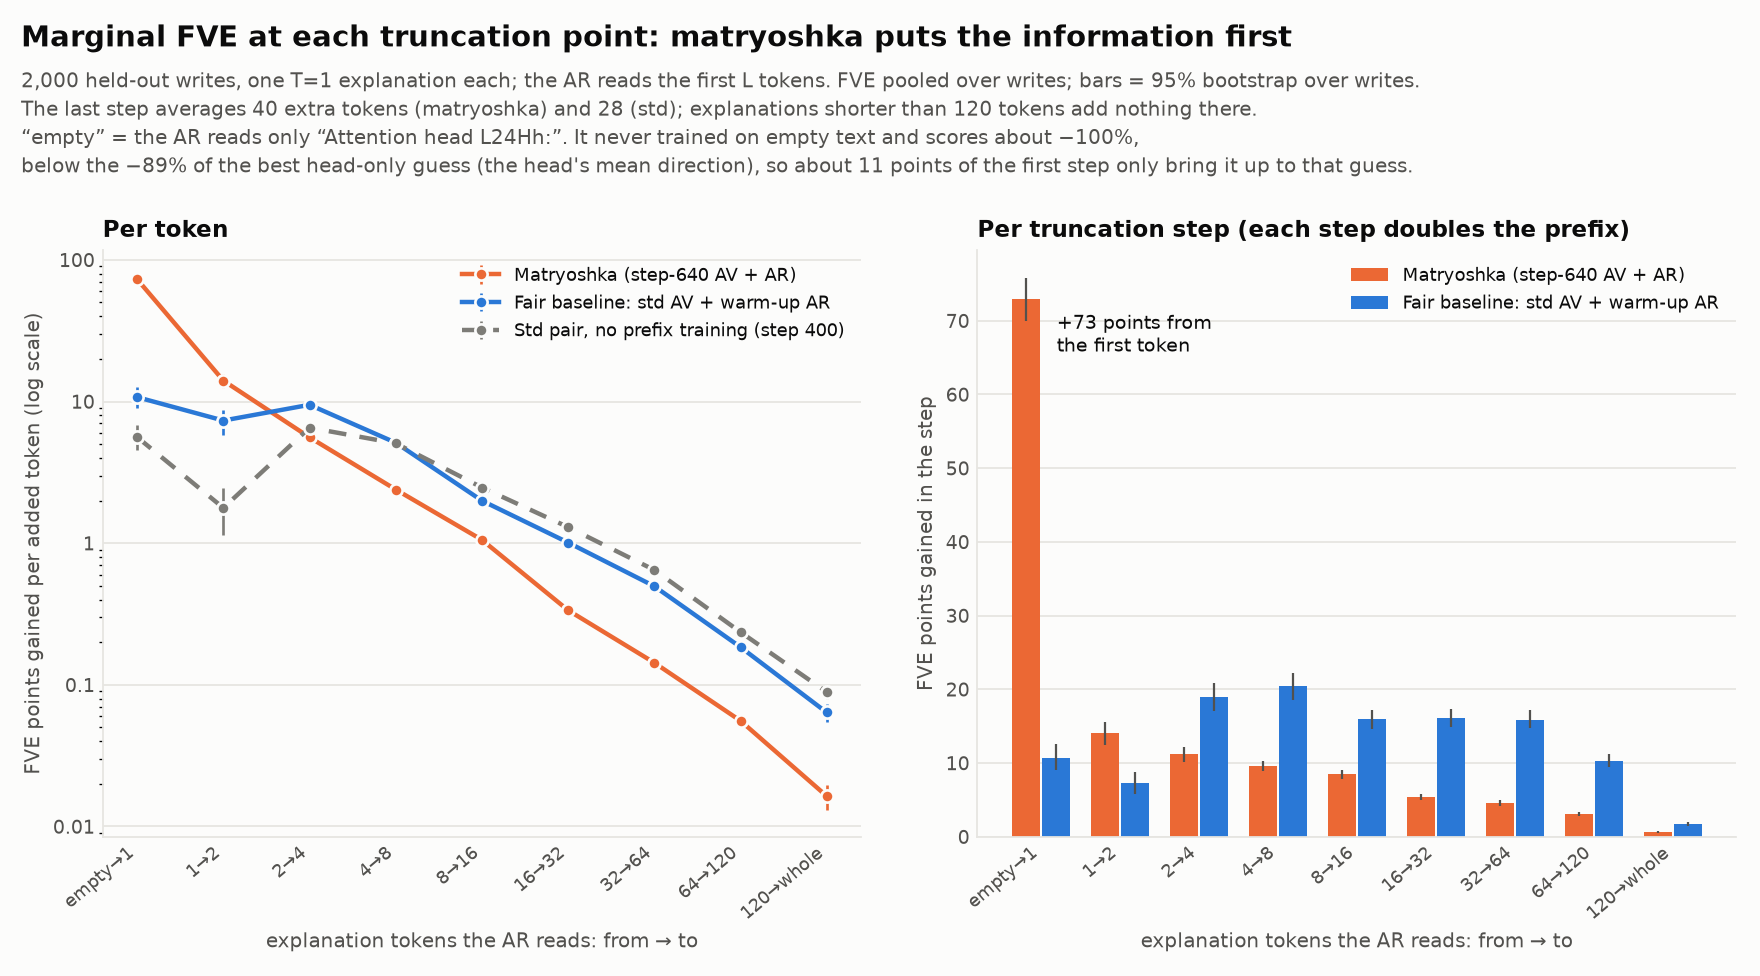
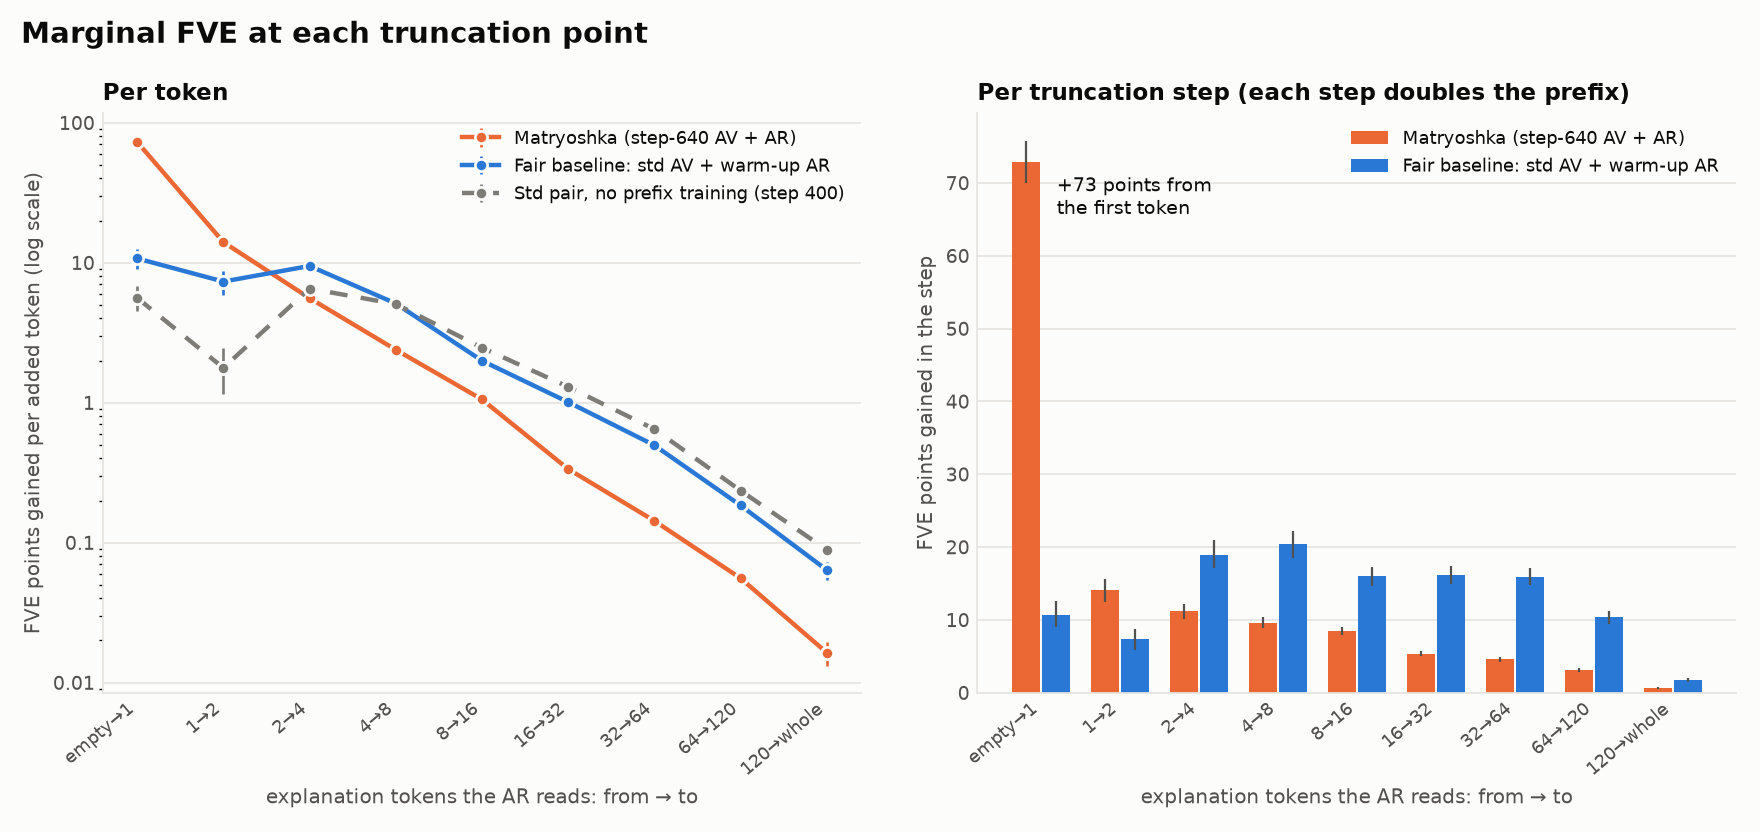
Head NLA: matryoshka FVE-by-token figure; descriptions removed from the figure images (titles, axes, legends and value labels only), captions live in the results doc
Claude-Session: https://claude.ai/code/session_01XurwTUm8G3UyEr7SWoMWmT

diff --git a/scripts/heads_mtry_quality_plots.py b/scripts/heads_mtry_quality_plots.py
@@ -69,9 +69,8 @@ def style(ax, ygrid: bool = True) -> None:
     ax.tick_params(colors=INK2, labelsize=8.5, length=0)
 
 
-def heading(fig, title: str, sub: str, y0: float = 0.975) -> None:
+def heading(fig, title: str, y0: float = 0.975) -> None:
     fig.text(0.012, y0, title, fontsize=13, color=INK, fontweight="bold", va="top")
-    fig.text(0.012, y0 - 0.045 * (6.0 / fig.get_figheight()), sub, fontsize=8.8, color=INK2, va="top", linespacing=1.45)
 
 
 def fig_legend(fig, handles, y: float, ncol: int) -> None:
@@ -82,11 +81,6 @@ def fig_legend(fig, handles, y: float, ncol: int) -> None:
 def line_handle(col, ls, lab, marker="o"):
     from matplotlib.lines import Line2D
     return Line2D([], [], color=col, ls=ls, lw=2, marker=marker, ms=5.5, mec=SURF, label=lab)
-
-
-EMPTY_NOTE = ("“empty” = the AR reads only “Attention head L24Hh:”. It never trained on empty text and scores about "
-              "−100%,\nbelow the −89% of the best head-only guess (the head's mean direction), so about 11 points of the "
-              "first step only bring it up to that guess.")
 
 
 def pcty(ax) -> None:
@@ -151,7 +145,7 @@ def main() -> None:
     x = np.arange(len(LS))
 
     # ---- 1. marginal FVE at each truncation step ----
-    fig, (a1, a2) = plt.subplots(1, 2, figsize=(11, 6.1), dpi=160)
+    fig, (a1, a2) = plt.subplots(1, 2, figsize=(11, 5.2), dpi=160)
     fig.patch.set_facecolor(SURF)
     xs = np.arange(len(STEPS))
     for k, lab, col, ls, _ in LINES:
@@ -184,17 +178,13 @@ def main() -> None:
         ax.set_xlabel("explanation tokens the AR reads: from → to", color=INK2, fontsize=8.8)
     a1.legend(loc="upper right", frameon=False, fontsize=8.3, labelcolor=INK)
     a2.legend(loc="upper right", frameon=False, fontsize=8.3, labelcolor=INK)
-    heading(fig, "Marginal FVE at each truncation point: matryoshka puts the information first",
-            f"{N:,} held-out writes, one T=1 explanation each; the AR reads the first L tokens. FVE pooled over writes; "
-            "bars = 95% bootstrap over writes.\nThe last step averages "
-            f"{R[LINES[0][1]]['step_tokens'][-1]:.0f} extra tokens (matryoshka) and {R[LINES[1][1]]['step_tokens'][-1]:.0f} "
-            "(std); explanations shorter than 120 tokens add nothing there.\n" + EMPTY_NOTE)
-    fig.tight_layout(rect=(0, 0, 1, 0.8), w_pad=2.5)
+    heading(fig, "Marginal FVE at each truncation point")
+    fig.tight_layout(rect=(0, 0, 1, 0.93), w_pad=2.5)
     fig.savefig(out / "head_nla_l24_mtry_marginal_fve.png", facecolor=SURF)
     plt.close(fig)
 
     # ---- 2. per-write quality by prefix length ----
-    fig, axs = plt.subplots(1, 3, figsize=(12, 5.6), dpi=160)
+    fig, axs = plt.subplots(1, 3, figsize=(12, 4.9), dpi=160)
     fig.patch.set_facecolor(SURF)
     for k, lab, col, ls, _ in LINES:
         r = R[lab]
@@ -206,34 +196,25 @@ def main() -> None:
         axs[1].plot(x, y, color=col, ls=ls, lw=2, marker="o", ms=5, mec=SURF, mew=1.2)
         y = 100 * np.array(r["share_of_gain"])
         axs[2].plot(x, y, color=col, ls=ls, lw=2, marker="o", ms=5, mec=SURF, mew=1.2)
-    axs[0].set_title("Cosine with the true write, per write", loc="left", fontsize=10, color=INK, fontweight="bold")
-    axs[0].set_ylabel("median (band: middle 50% of writes)", color=INK2, fontsize=8.8)
-    axs[1].set_title("Writes reconstructed better than\nthe head's mean write (FVE > 0)", loc="left", fontsize=10,
+    axs[0].set_title("Cosine per write (median, IQR)", loc="left", fontsize=10, color=INK, fontweight="bold")
+    axs[1].set_title("Writes with FVE > 0", loc="left", fontsize=10,
                      color=INK, fontweight="bold")
     axs[1].set_ylim(0, 100)
     axs[1].yaxis.set_major_formatter(matplotlib.ticker.FuncFormatter(lambda y, _: f"{y:.0f}%"))
-    axs[2].set_title("Share of the empty → whole FVE gain\nreached by the first L tokens", loc="left", fontsize=10,
+    axs[2].set_title("Share of the empty → whole gain", loc="left", fontsize=10,
                      color=INK, fontweight="bold")
     axs[2].set_ylim(0, 105)
     axs[2].yaxis.set_major_formatter(matplotlib.ticker.FuncFormatter(lambda y, _: f"{y:.0f}%"))
     m, b = R[LINES[0][1]], R[LINES[1][1]]
     i16 = LS.index("16")
-    axs[2].text(0.98, 0.04, f"Matryoshka: {100 * m['share_of_gain'][1]:.0f}% at token 1,\n"
-                f"fair baseline {100 * b['share_of_gain'][1]:.0f}%", transform=axs[2].transAxes, fontsize=8.3,
-                color=INK, ha="right", va="bottom")
-    axs[1].text(0.98, 0.04, f"At 16 tokens:\nmatryoshka {100 * m['rows_beating_mean'][i16]:.0f}%,\n"
-                f"fair baseline {100 * b['rows_beating_mean'][i16]:.0f}%", transform=axs[1].transAxes, fontsize=8.3,
-                color=INK, ha="right", va="bottom")
     for ax in axs:
         style(ax)
         ax.set_xticks(x)
         ax.set_xticklabels(LLAB, fontsize=8)
         ax.set_xlabel("explanation tokens the AR reads", color=INK2, fontsize=8.8)
-    heading(fig, "How reconstruction builds up as the AR reads more of the explanation",
-            f"{N:,} held-out writes (all 32 heads). Middle: bands = 95% bootstrap over writes. Right: (FVE(L) − FVE(empty)) / "
-            "(FVE(whole) − FVE(empty)), pooled FVE.\n" + EMPTY_NOTE)
-    fig_legend(fig, [line_handle(col, ls, lab) for _, lab, col, ls, _ in LINES], 0.845, 3)
-    fig.tight_layout(rect=(0, 0, 1, 0.8), w_pad=2.2)
+    heading(fig, "Reconstruction by prefix length")
+    fig_legend(fig, [line_handle(col, ls, lab) for _, lab, col, ls, _ in LINES], 0.925, 3)
+    fig.tight_layout(rect=(0, 0, 1, 0.87), w_pad=2.2)
     fig.savefig(out / "head_nla_l24_mtry_quality_by_prefix.png", facecolor=SURF)
     plt.close(fig)
 
@@ -241,7 +222,7 @@ def main() -> None:
     bfull = cm["base"].astype(np.float64)
     dist = [("Std pair (step 400)", cs["av__true"], STD_C, "-"), ("Matryoshka pair (step 640)", cm["av__true"], MTRY_C, "-"),
             ("Shuffled control (matryoshka)", cm["av__shuf"], SHUF_C, (0, (4, 3)))]
-    fig, (a1, a2) = plt.subplots(1, 2, figsize=(11, 5.0), dpi=160)
+    fig, (a1, a2) = plt.subplots(1, 2, figsize=(11, 4.6), dpi=160)
     fig.patch.set_facecolor(SURF)
     res["whole"] = {"n_rows": int(len(bfull))}
     for lab, e, col, ls in dist:
@@ -260,21 +241,18 @@ def main() -> None:
             v = res["whole"][lab][key] * (100 if key == "fve_pooled" else 1)
             ax.axvline(v, color=col, lw=1, ls=(0, (1, 2)))
     a1.set_title("Cosine with the true write", loc="left", fontsize=10.5, color=INK, fontweight="bold")
-    a1.set_xlabel("cosine (dotted: mean)", color=INK2, fontsize=8.8)
+    a1.set_xlabel("cosine", color=INK2, fontsize=8.8)
     a2.set_title("Per-write FVE", loc="left", fontsize=10.5, color=INK, fontweight="bold")
-    a2.set_xlabel("FVE vs the head's mean write (dotted: pooled FVE)", color=INK2, fontsize=8.8)
+    a2.set_xlabel("FVE", color=INK2, fontsize=8.8)
     a2.xaxis.set_major_formatter(matplotlib.ticker.FuncFormatter(lambda y, _: f"{y:+.0f}%".replace("-", "−") if y else "0%"))
     W = res["whole"]
-    a2.text(0.02, 0.97, "Below −150%, not shown: " + ", ".join(
-        f"{lab.split(' (')[0].lower()} {100 * W[lab]['rows_fve_below_-150']:.1f}%" for lab, *_ in dist),
-        transform=a2.transAxes, fontsize=8, color=INK2, va="top")
-    heading(fig, "Whole explanations: how well each write is reconstructed",
-            f"All {len(bfull):,} held-out writes, one T=1 explanation each, read by its own AR. Mean cosine "
-            f"{W[dist[0][0]]['cos_mean']:.2f} (std) and {W[dist[1][0]]['cos_mean']:.2f} (matryoshka); pooled FVE "
-            f"{pct(W[dist[0][0]]['fve_pooled'])} and {pct(W[dist[1][0]]['fve_pooled'])}.\nShuffled control: the matryoshka "
-            "AV describes a different write of the same head, scored against this one.")
-    fig_legend(fig, [line_handle(col, ls, lab, marker=None) for lab, _, col, ls in dist], 0.85, 3)
-    fig.tight_layout(rect=(0, 0, 1, 0.8), w_pad=2.5)
+    off = [(lab, W[lab]["rows_fve_below_-150"]) for lab, *_ in dist if W[lab]["rows_fve_below_-150"] >= 0.0005]
+    if off:
+        a2.text(0.02, 0.97, "Below −150%: " + ", ".join(f"{lab.split(' (')[0].lower()} {100 * v:.1f}%" for lab, v in off),
+                transform=a2.transAxes, fontsize=8, color=INK2, va="top")
+    heading(fig, "Whole explanations: per-write reconstruction")
+    fig_legend(fig, [line_handle(col, ls, lab, marker=None) for lab, _, col, ls in dist], 0.925, 3)
+    fig.tight_layout(rect=(0, 0, 1, 0.87), w_pad=2.5)
     fig.savefig(out / "head_nla_l24_fve_distribution_std_vs_mtry.png", facecolor=SURF)
     plt.close(fig)
 
@@ -300,12 +278,12 @@ def main() -> None:
     res["per_head"]["rows_first16"] = np.bincount(heads, minlength=H).tolist()
     order = np.argsort(ph["whole: matryoshka pair (step 640)"][0])               # bottom → top = worst → best
     ypos = {h: i for i, h in enumerate(order)}
-    fig, (a1, a2) = plt.subplots(1, 2, figsize=(11, 8.6), dpi=160, sharey=True)
+    fig, (a1, a2) = plt.subplots(1, 2, figsize=(11, 8.2), dpi=160, sharey=True)
     fig.patch.set_facecolor(SURF)
     panels = [(a1, "Whole explanation", ["whole: std pair (step 400)", "whole: matryoshka pair (step 640)"],
                ["Std pair (step 400)", "Matryoshka pair (step 640)"]),
               (a2, "First 16 explanation tokens", ["first 16: fair baseline (std AV + warm-up AR)", "first 16: matryoshka"],
-               ["Std AV + warm-up AR", "Matryoshka (step 640)"])]
+               ["Std AV + warm-up AR (fair baseline)", "Matryoshka (step 640)"])]
     for ax, title, keys, labs in panels:
         (f0, c0), (f1, c1) = ph[keys[0]], ph[keys[1]]
         for h in range(H):
@@ -320,7 +298,7 @@ def main() -> None:
         ax.grid(axis="x", color=GRID, lw=0.8)
         ax.set_title(title, loc="left", fontsize=10.5, color=INK, fontweight="bold")
         ax.xaxis.set_major_formatter(matplotlib.ticker.FuncFormatter(lambda y, _: f"{y:+.0f}%".replace("-", "−") if y else "0%"))
-        ax.set_xlabel("FVE vs the head's mean write (95% bootstrap CI)", color=INK2, fontsize=8.8)
+        ax.set_xlabel("FVE (95% CI)", color=INK2, fontsize=8.8)
         ax.legend(loc="lower right", frameon=False, fontsize=8.3, labelcolor=INK)
     lo = min(100 * min(v[1][:, 0].min() for v in ph.values()), -60)
     hi = 100 * max(v[1][:, 1].max() for v in ph.values())
@@ -329,13 +307,8 @@ def main() -> None:
     a1.set_yticks(range(H))
     a1.set_yticklabels([f"H{h}  (KV{h // 4})" for h in order], fontsize=8)
     a1.set_ylim(-0.7, H - 0.3)
-    nw, n16 = np.bincount(hfull).mean(), np.bincount(heads).mean()
-    heading(fig, "FVE per attention head, standard and matryoshka NLA",
-            f"Held-out writes: about {nw:.0f} per head for whole explanations (all {len(bfull):,}), about {n16:.0f} per "
-            f"head for the first 16 tokens (prefix sweep, {N:,}).\nHeads sorted by the matryoshka pair's whole-explanation "
-            "FVE. Left: each pair's own AR. Right: the std AV's text read by the warm-up AR (trained on prefixes),\nthe "
-            "fair comparison.", y0=0.985)
-    fig.tight_layout(rect=(0, 0, 1, 0.905), w_pad=1.5)
+    heading(fig, "FVE per head: standard vs matryoshka", y0=0.985)
+    fig.tight_layout(rect=(0, 0, 1, 0.955), w_pad=1.5)
     fig.savefig(out / "head_nla_l24_fve_per_head_std_vs_mtry.png", facecolor=SURF)
     plt.close(fig)
 
@@ -347,7 +320,7 @@ def main() -> None:
           "Fair baseline: std AV + warm-up AR": head_by_L(E["rl400|mtry_w"])}
     res["per_head_by_prefix"] = {k: v.tolist() for k, v in HM.items()}
     norm = TwoSlopeNorm(vmin=-100, vcenter=0, vmax=100)
-    fig, axs = plt.subplots(1, 2, figsize=(11, 8.6), dpi=160, sharey=True)
+    fig, axs = plt.subplots(1, 2, figsize=(11, 8.2), dpi=160, sharey=True)
     fig.patch.set_facecolor(SURF)
     for ax, (lab, M) in zip(axs, HM.items()):
         im = ax.imshow(np.clip(100 * M[order], -100, 100), cmap=DIV, norm=norm, aspect="auto", origin="lower",
@@ -365,14 +338,11 @@ def main() -> None:
     axs[0].set_yticks(range(H))
     axs[0].set_yticklabels([f"H{h}" for h in order], fontsize=8)
     cb = fig.colorbar(im, cax=fig.add_axes((0.925, 0.25, 0.015, 0.5)))
-    cb.set_label("FVE (%), clipped at ±100", color=INK2, fontsize=8.5)
+    cb.set_label("FVE (%)", color=INK2, fontsize=8.5)
     cb.ax.tick_params(colors=INK2, labelsize=8, length=0)
     cb.outline.set_visible(False)
-    heading(fig, "FVE per head at every prefix length",
-            f"Prefix sweep: {N:,} held-out writes, about {n16:.0f} per head. Cells: pooled FVE (%) of that head's writes "
-            "when the AR reads the first L tokens.\nHeads in the per-head figure's order (the matryoshka pair's "
-            "whole-explanation FVE, best at the top).", y0=0.985)
-    fig.subplots_adjust(left=0.06, right=0.9, top=0.88, bottom=0.07, wspace=0.06)
+    heading(fig, "FVE per head by prefix length", y0=0.985)
+    fig.subplots_adjust(left=0.06, right=0.9, top=0.915, bottom=0.07, wspace=0.06)
     fig.savefig(out / "head_nla_l24_mtry_prefix_by_head.png", facecolor=SURF)
     plt.close(fig)
 
@@ -380,7 +350,7 @@ def main() -> None:
     M = HM["Matryoshka (step-640 AV + AR)"]
     G = 100 * (M[:, 1:] - M[:, :-1])                                            # [H, steps]
     res["per_head_step_gain_mtry"] = G.tolist()
-    fig, ax = plt.subplots(figsize=(9.2, 9.4), dpi=160)
+    fig, ax = plt.subplots(figsize=(9.2, 8.8), dpi=160)
     fig.patch.set_facecolor(SURF)
     seq = LinearSegmentedColormap.from_list("gain", ["#f4f3f0", "#86b6ef", "#2a78d6", "#104281"])
     gn = PowerNorm(gamma=0.5, vmin=0, vmax=100)
@@ -388,9 +358,6 @@ def main() -> None:
     for (yy, xx), v in np.ndenumerate(G[order]):
         ax.text(xx, yy, f"{v:+.0f}".replace("-", "−") if abs(v) >= 0.5 else "0", ha="center", va="center",
                 fontsize=6.3, color="#fcfcfb" if v > 30 else INK)
-    tot = M[:, -1] - M[:, 0]
-    first_share = G[:, 0] / (100 * tot)
-    late = G[:, LS.index("32"):]                                               # steps from 32 on
     ax.set_xticks(range(len(STEPS)))
     ax.set_xticklabels(STEPS, rotation=40, ha="right", fontsize=8)
     ax.set_yticks(range(H))
@@ -400,21 +367,49 @@ def main() -> None:
     for sp in ax.spines.values():
         sp.set_visible(False)
     cb = fig.colorbar(im, ax=ax, fraction=0.04, pad=0.02)
-    cb.set_label("FVE points gained in the step (square-root scale)", color=INK2, fontsize=8.5)
+    cb.set_label("FVE points gained", color=INK2, fontsize=8.5)
     cb.ax.tick_params(colors=INK2, labelsize=8, length=0)
     cb.outline.set_visible(False)
-    heading(fig, "Matryoshka: FVE gained at each truncation step, per head",
-            f"About {n16:.0f} held-out writes per head, so single steps are noisy (a few points). Heads in the per-head "
-            f"figure's order.\nThe first step is more than half of the empty → whole gain for {(first_share > 0.5).sum()} of "
-            f"{H} heads (see the note on “empty”\nin the marginal figure). From 32 tokens on, no step adds more than "
-            f"{late.max():.0f} points for any head (median {np.median(late):.0f}).\nColour: square-root scale; "
-            f"{(G < 0).sum()} negative cell(s) shown as 0.", y0=0.985)
-    fig.subplots_adjust(left=0.09, right=0.93, top=0.85, bottom=0.1)
+    heading(fig, "Matryoshka: FVE gained per truncation step, by head", y0=0.985)
+    fig.subplots_adjust(left=0.09, right=0.93, top=0.935, bottom=0.1)
     fig.savefig(out / "head_nla_l24_mtry_marginal_by_head.png", facecolor=SURF)
     plt.close(fig)
 
+    # ---- 7. matryoshka: FVE from the first n tokens ----
+    r = R[LINES[0][1]]
+    num = LS[1:-1]                                                             # 1 … 120
+    xs = [int(L) for L in num]
+    xw = 240                                                                   # "whole", set apart on the log axis
+    y = 100 * np.array(r["fve"][1:-1])
+    lo, hi = (100 * np.array([c[i] for c in r["fve_ci"][1:-1]]) for i in (0, 1))
+    fw, (wl, wh) = 100 * r["fve"][-1], (100 * v for v in r["fve_ci"][-1])
+    fig, ax = plt.subplots(figsize=(7.5, 4.3), dpi=160)
+    fig.patch.set_facecolor(SURF)
+    style(ax)
+    ax.axhline(0, color=INK2, lw=1, zorder=1)
+    ax.axvline(170, color=GRID, lw=1, zorder=1)
+    ax.fill_between(xs, lo, hi, color=MTRY_C, alpha=0.15, lw=0)
+    ax.plot(xs, y, color=MTRY_C, lw=2, marker="o", ms=6, mec=SURF, mew=1.2, zorder=3)
+    ax.errorbar([xw], [fw], yerr=[[fw - wl], [wh - fw]], fmt="o", color=MTRY_C, ms=6, mec=SURF, mew=1.2,
+                elinewidth=1.5, capsize=0, zorder=3)
+    for xv, yv in ((1, y[0]), (16, y[num.index("16")]), (xw, fw)):
+        ax.annotate(pct(yv / 100), (xv, yv), xytext=(0, 9), textcoords="offset points", ha="center", va="bottom",
+                    fontsize=9, color=INK)
+    ax.set_xscale("log", base=2)
+    ax.set_xticks(xs + [xw])
+    ax.set_xticklabels([str(v) for v in xs] + ["whole"])
+    ax.minorticks_off()
+    ax.set_xlim(0.75, xw * 1.35)
+    pcty(ax)
+    ax.set_xlabel("explanation tokens read (n)", color=INK2, fontsize=9)
+    ax.set_ylabel("FVE", color=INK2, fontsize=9)
+    ax.set_title("Matryoshka NLA: FVE from the first n tokens", loc="left", fontsize=12, color=INK, fontweight="bold")
+    fig.tight_layout()
+    fig.savefig(out / "head_nla_l24_mtry_fve_by_token.png", facecolor=SURF)
+    plt.close(fig)
+
     (out / "head_nla_l24_mtry_quality.json").write_text(json.dumps(res, indent=1) + "\n")
-    print(f"wrote 6 figures and head_nla_l24_mtry_quality.json to {out}")
+    print(f"wrote 7 figures and head_nla_l24_mtry_quality.json to {out}")
 
 
 if __name__ == "__main__":

diff --git a/scripts/heads_quote_topk_plot.py b/scripts/heads_quote_topk_plot.py
@@ -37,7 +37,7 @@ def main() -> None:
         ("uniform", "uniform_given_in_context", "k random positions", "#8f8e89", None, (0, (4, 3))),
     ]
     rows = [("All quotes", 0), ("Quotes that appear in the text", 1)]
-    fig, axes = plt.subplots(2, 3, figsize=(11, 7.0), dpi=160, sharex=True, sharey="row")
+    fig, axes = plt.subplots(2, 3, figsize=(11, 6.4), dpi=160, sharex=True, sharey="row")
     fig.patch.set_facecolor(surf)
     for (row_title, ri), axr in zip(rows, axes):
         for (src, title), ax in zip(SRCS, axr):
@@ -76,22 +76,11 @@ def main() -> None:
     axes[0, 0].set_yticks([0, 5, 10, 15])
     fig.legend(handles=[Line2D([], [], color=c, marker=m, ms=6.5, mec=surf, lw=2 if k != "uniform" else 1.4, ls=ls,
                                label=lab) for k, _, lab, c, m, ls in series],
-               loc="upper left", bbox_to_anchor=(0.006, 0.895), ncol=4, frameon=False, fontsize=8.5, labelcolor=ink,
+               loc="upper left", bbox_to_anchor=(0.006, 0.955), ncol=4, frameon=False, fontsize=8.5, labelcolor=ink,
                handlelength=2.6, columnspacing=1.6)
-    rule = ("the quote is exactly 1–4 consecutive tokens of the text" if a.rule == "strict"
-            else "a word of the quote matches a token, or a ≥4-character substring either way")
-    fig.text(0.012, 0.985, "Quoted terms in head explanations name the tokens that head attends to",
-             fontsize=13, color=ink, fontweight="bold", va="top")
-    fig.text(0.012, 0.948, "Qwen3-8B layer 24, every token × head of 8 texts (4 web documents, 4 chats). "
-             f"Matching: {rule}.\nA shuffled explanation is another token's explanation from the same head and text "
-             f"({J['shuffles']} re-pairings).", fontsize=8.8, color=ink2, va="top", linespacing=1.4)
-    ci = [R[src]["k"]["10"]["diff_ci95"] for src, _ in SRCS]
-    fig.text(0.012, 0.012, "Top-10 minus shuffled, 95% CI over the 256 text × head groups: "
-             + " · ".join(f"{n} {100 * lo:+.1f} to {100 * hi:+.1f} points" for n, (lo, hi)
-                          in zip(("standard RL", "matryoshka", "first 16 tokens"), ci))
-             + ".\nThe difference is positive in all 8 texts for every source.", fontsize=8.2, color=ink2,
-             va="bottom", linespacing=1.4)
-    fig.tight_layout(rect=(0, 0.045, 1, 0.845), h_pad=1.6, w_pad=1.2)
+    fig.text(0.012, 0.985, "Quoted terms name the head's top-k attended tokens", fontsize=13, color=ink,
+             fontweight="bold", va="top")
+    fig.tight_layout(rect=(0, 0, 1, 0.9), h_pad=1.6, w_pad=1.2)
     fig.savefig(a.out, facecolor=surf)
     print(f"wrote {a.out}")
 

diff --git a/docs/head_nla_results.md b/docs/head_nla_results.md
@@ -377,7 +377,14 @@ Docs: `docs/head_nla_l24_matryoshka_plan.md`; figure `docs/head_nla_l24_mtry_fve
 ### Reconstruction quality and marginal FVE
 
 `scripts/heads_mtry_quality_plots.py` draws six figures from the public per-row files (CPU only). Their numbers
-are in `docs/head_nla_l24_mtry_quality.json`, and the pooled FVE matches the report above.
+are in `docs/head_nla_l24_mtry_quality.json`, and the pooled FVE matches the report above. A seventh is the
+matryoshka curve alone.
+
+![Matryoshka FVE from the first n tokens](head_nla_l24_mtry_fve_by_token.png)
+
+`head_nla_l24_mtry_fve_by_token.png`: the matryoshka pair's FVE when the AR reads the first n explanation tokens, pooled
+over the 2,000 held-out writes. The band is a 95% bootstrap over writes. It is −27% at 1 token, −2% at 4, +16% at 16,
++29% at 120 and +30% for whole explanations. The figures carry no descriptions; captions live here.
 
 ![Marginal FVE at each truncation point](head_nla_l24_mtry_marginal_fve.png)
 
@@ -701,6 +708,7 @@ These are reasoned, not measured: no run trained without centering. For most hea
 - **Matryoshka:** `docs/head_nla_l24_matryoshka_plan.md`, `docs/head_nla_l24_mtry_fve_by_prefix.png`,
   `docs/head_nla_l24_mtry_examples.md`.
   - Quality figures by `scripts/heads_mtry_quality_plots.py` (numbers in `head_nla_l24_mtry_quality.json`):
+    - `head_nla_l24_mtry_fve_by_token.png`;
     - `head_nla_l24_mtry_marginal_fve.png`;
     - `head_nla_l24_mtry_quality_by_prefix.png`;
     - `head_nla_l24_fve_distribution_std_vs_mtry.png`;
